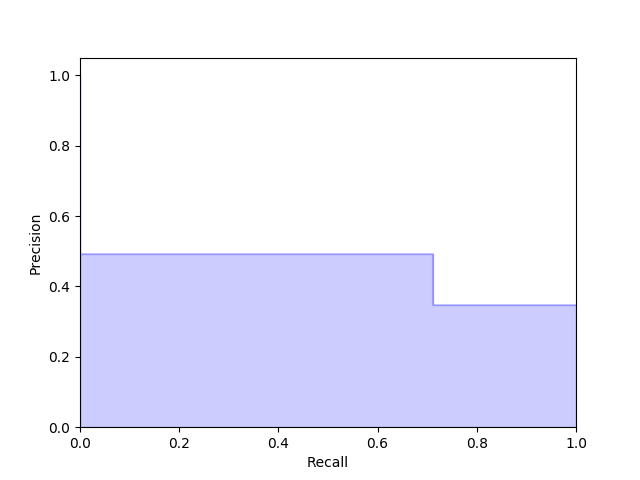
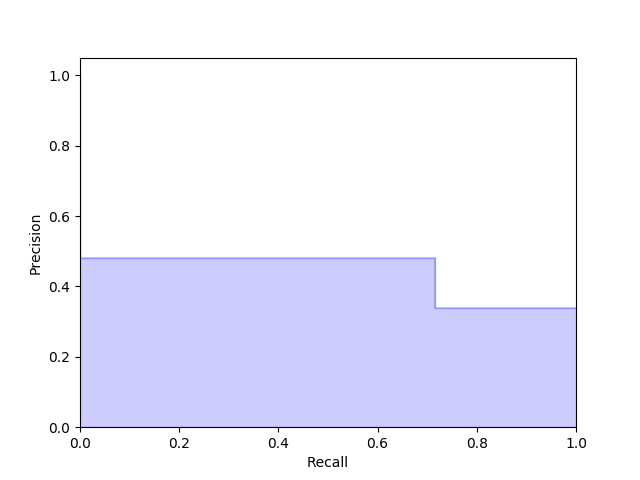
pc work

Changed region(s): [[0.125, 0.5, 0.9062, 0.6562]]

diff --git a/LinearSVC.py b/LinearSVC.py
@@ -98,7 +98,7 @@ def main():
                     male+=1
                 else:
                     fem+=1
-           # acc = textClassification(tweet_arr, gender_arr, "Tweet LinearSVC")
+            acc = textClassification(tweet_arr, gender_arr, "Tweet LinearSVC")
     with open('data/original_dataset_nounicode.json') as totalDataset,open('data/original_dataset_nounicode.json') as totalDataset1,open("data/numb_Hashtag.json") as numbHashtag,open("data/twitter_Hashtag.json") as hashTagTweet, open("data/gender.json") as genderData:
         
         totalDataset = json.load(totalDataset)
@@ -117,32 +117,32 @@ def main():
 
         #create models, plot and then get accuracy of models
         #created_at_acc = simpleFeature(created_at, gender, "Created At")
-        favouritesResults = simpleFeature(favourites_count, gender, "Favourites Count")
+        #favouritesResults = simpleFeature(favourites_count, gender, "Favourites Count")
         
-        listed_acc = simpleFeature(listed_count, gender, "Listed Count")   
-        description_acc = textClassification(description, gender, "Description")
-        tweet_acc = textClassification(tweet, gender, "Tweet")
-        name_acc = textClassification(name, gender, "name")
-        screen_name = textClassification(name, gender, "Screen Name")
+        #listed_acc = simpleFeature(listed_count, gender, "Listed Count")   
+        #description_acc = textClassification(description, gender, "Description")
+        #tweet_acc = textClassification(tweet, gender, "Tweet")
+        #name_acc = textClassification(name, gender, "name")
+        #screen_name = textClassification(name, gender, "Screen Name")
 
         
         
         df.dropna(axis=0)
         df.set_index('id', inplace=True)
         df.head()
-        nameDescAcc=combinedFeatures("name", "description", df)
-        nameTweetAcc=combinedFeatures("name", "tweet", df)
-        nameScreen=combinedFeatures("name", "screen_name", df)
-        nameCreatedAt=combinedFeatures("name", "created_at", df)
-        tweetDesc=combinedFeatures("tweet", "description", df)
-        tweetNameDesc=combinedThreeTextFeatures("tweet", "name", "description", df)
-        numbHashtag=json.load(numbHashtag)
-        genderData=json.load(genderData)
-        hashtagTweet=json.load(hashTagTweet)
-        hashtagNumbAcc=hashtagNum(numbHashtag, genderData, "hashtag num ")
-        hashtagTextAcc=hashtagText(hashtagTweet, genderData, "hashtag text ")
+        #nameDescAcc=combinedFeatures("name", "description", df)
+        #nameTweetAcc=combinedFeatures("name", "tweet", df)
+        #nameScreen=combinedFeatures("name", "screen_name", df)
+        #nameCreatedAt=combinedFeatures("name", "created_at", df)
+        #tweetDesc=combinedFeatures("tweet", "description", df)
+        #tweetNameDesc=combinedThreeTextFeatures("tweet", "name", "description", df)
+        #numbHashtag=json.load(numbHashtag)
+        #genderData=json.load(genderData)
+        #hashtagTweet=json.load(hashTagTweet)
+        #hashtagNumbAcc=hashtagNum(numbHashtag, genderData, "hashtag num ")
+        #hashtagTextAcc=hashtagText(hashtagTweet, genderData, "hashtag text ")
         
-        plotAccuracy(favouritesResults, listed_acc, description_acc, tweet_acc, name_acc, screen_name, nameDescAcc, nameTweetAcc, nameScreen, nameCreatedAt, tweetDesc, tweetNameDesc, hashtagNumbAcc, hashtagTextAcc)
+        #plotAccuracy(favouritesResults, listed_acc, description_acc, tweet_acc, name_acc, screen_name, nameDescAcc, nameTweetAcc, nameScreen, nameCreatedAt, tweetDesc, tweetNameDesc, hashtagNumbAcc, hashtagTextAcc)
         
 
 def normaliseData(x):
@@ -341,7 +341,7 @@ def textClassification(X, y, name):
     print("Model "+name)
     
   
-    outerCV = KFold(n_splits=4, shuffle=True, random_state=21)
+    outerCV = KFold(n_splits=2, shuffle=True, random_state=21)
     vectorizer = CountVectorizer(stop_words='english', max_df=0.2)
     
     X = vectorizer.fit_transform(X)
@@ -359,7 +359,7 @@ def textClassification(X, y, name):
             }
     clist=hyperparameters["C"]
     interlist=hyperparameters["intercept_scaling"]
-    cv = RepeatedKFold(n_splits=2, n_repeats=4)
+    cv = RepeatedKFold(n_splits=2, n_repeats=2)
     clf=GridSearchCV(estimator=model, param_grid=hyperparameters, cv=cv)
     clf.fit(X, y)
     
@@ -370,7 +370,7 @@ def textClassification(X, y, name):
     precision =cross_val_score(clf, X=X, y=y, cv=cv, scoring="precision").mean()
     print(precision)
     predictions = cross_val_predict(clf, X, y, cv=outerCV)
-   
+    
     plotHeatMap(name, clf, clist, interlist)
     plotPrecisionRecall(predictions, y, name)
     f=open("scoresLinearSVC.txt", "a+")
